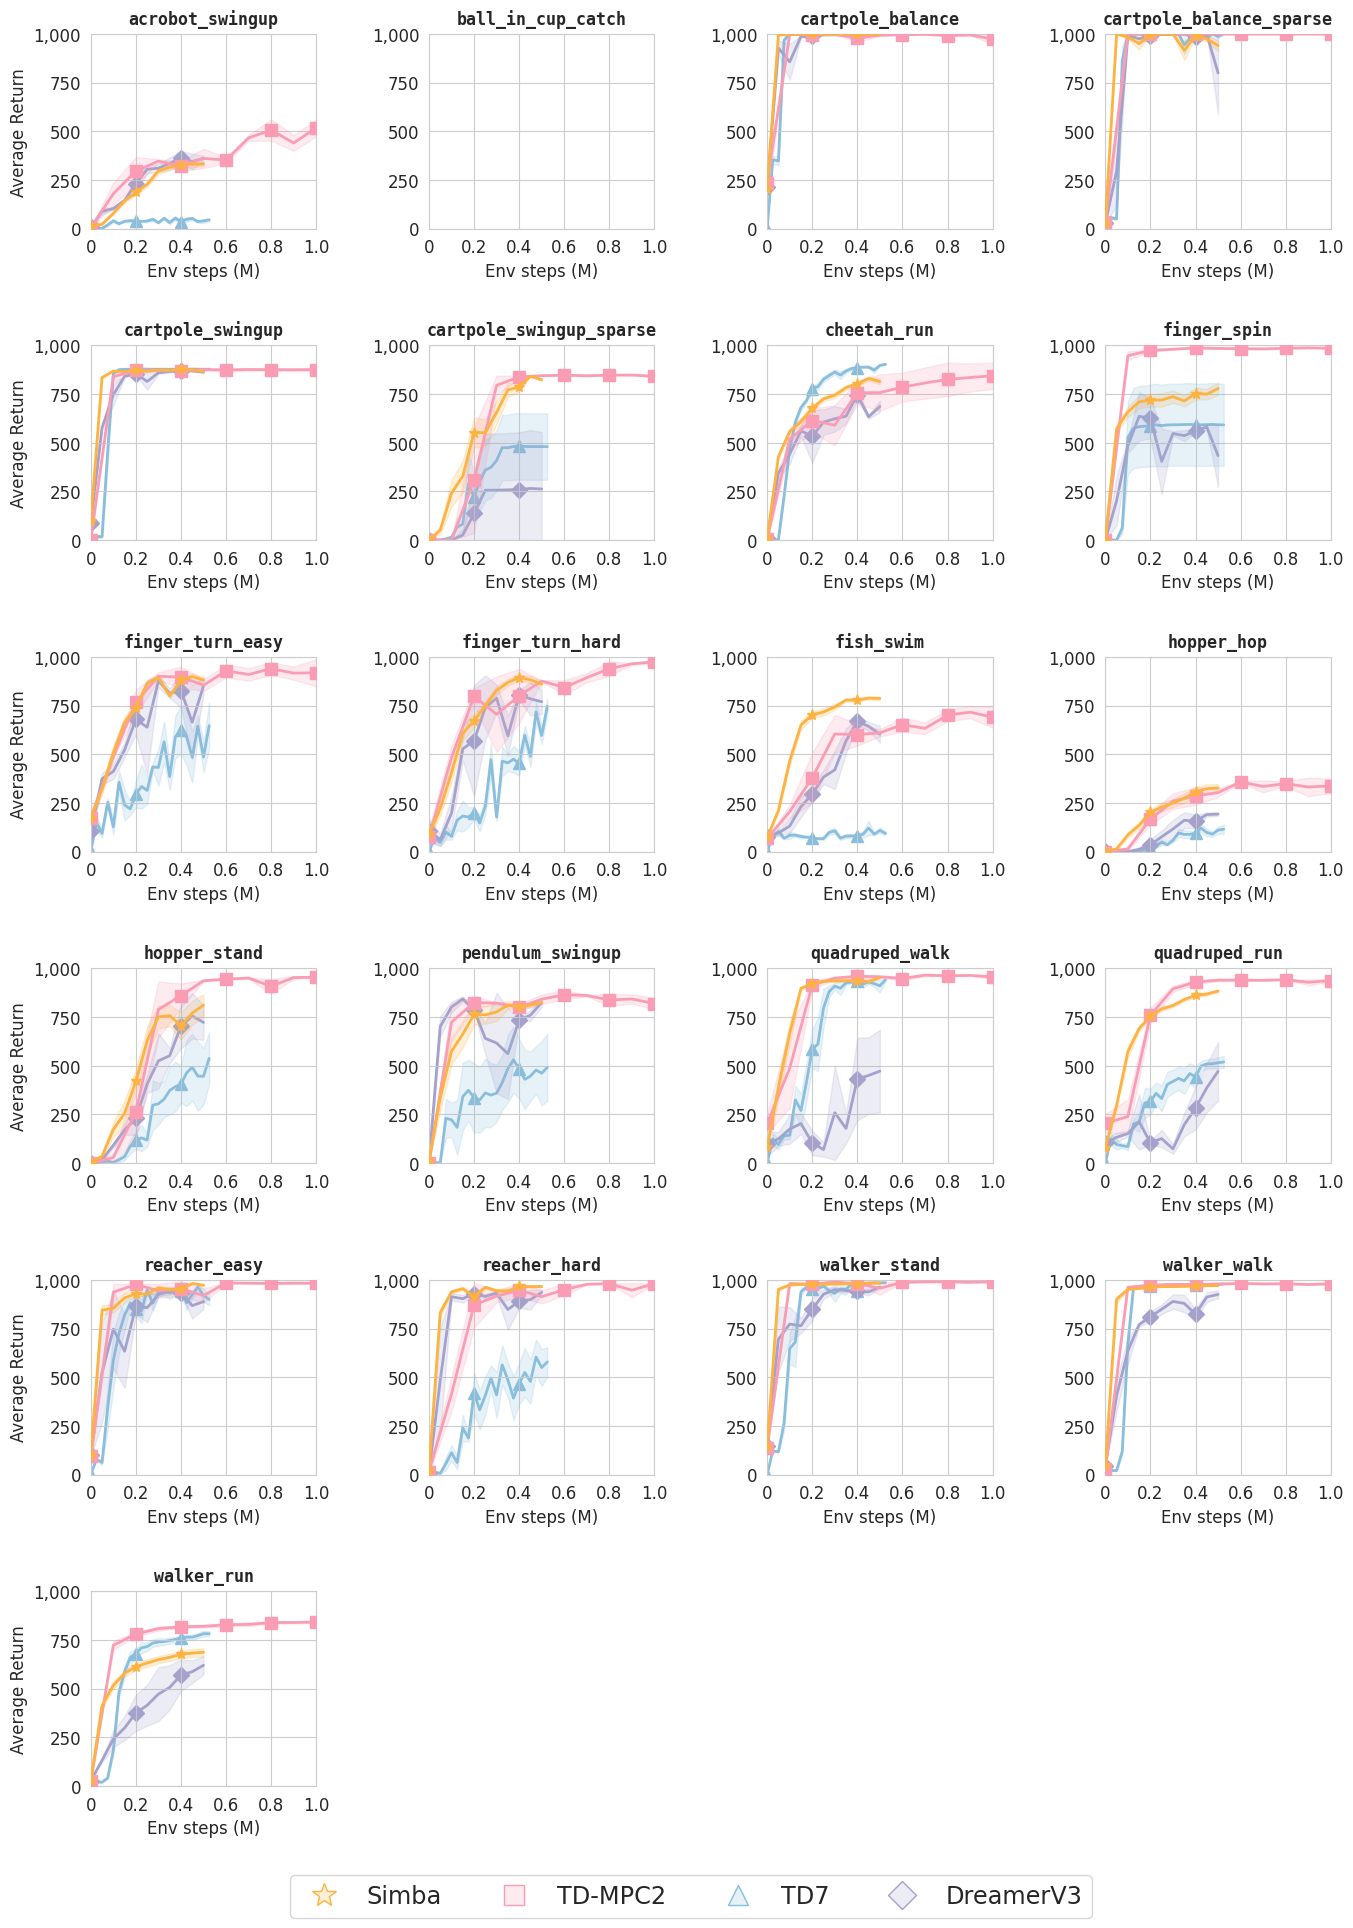
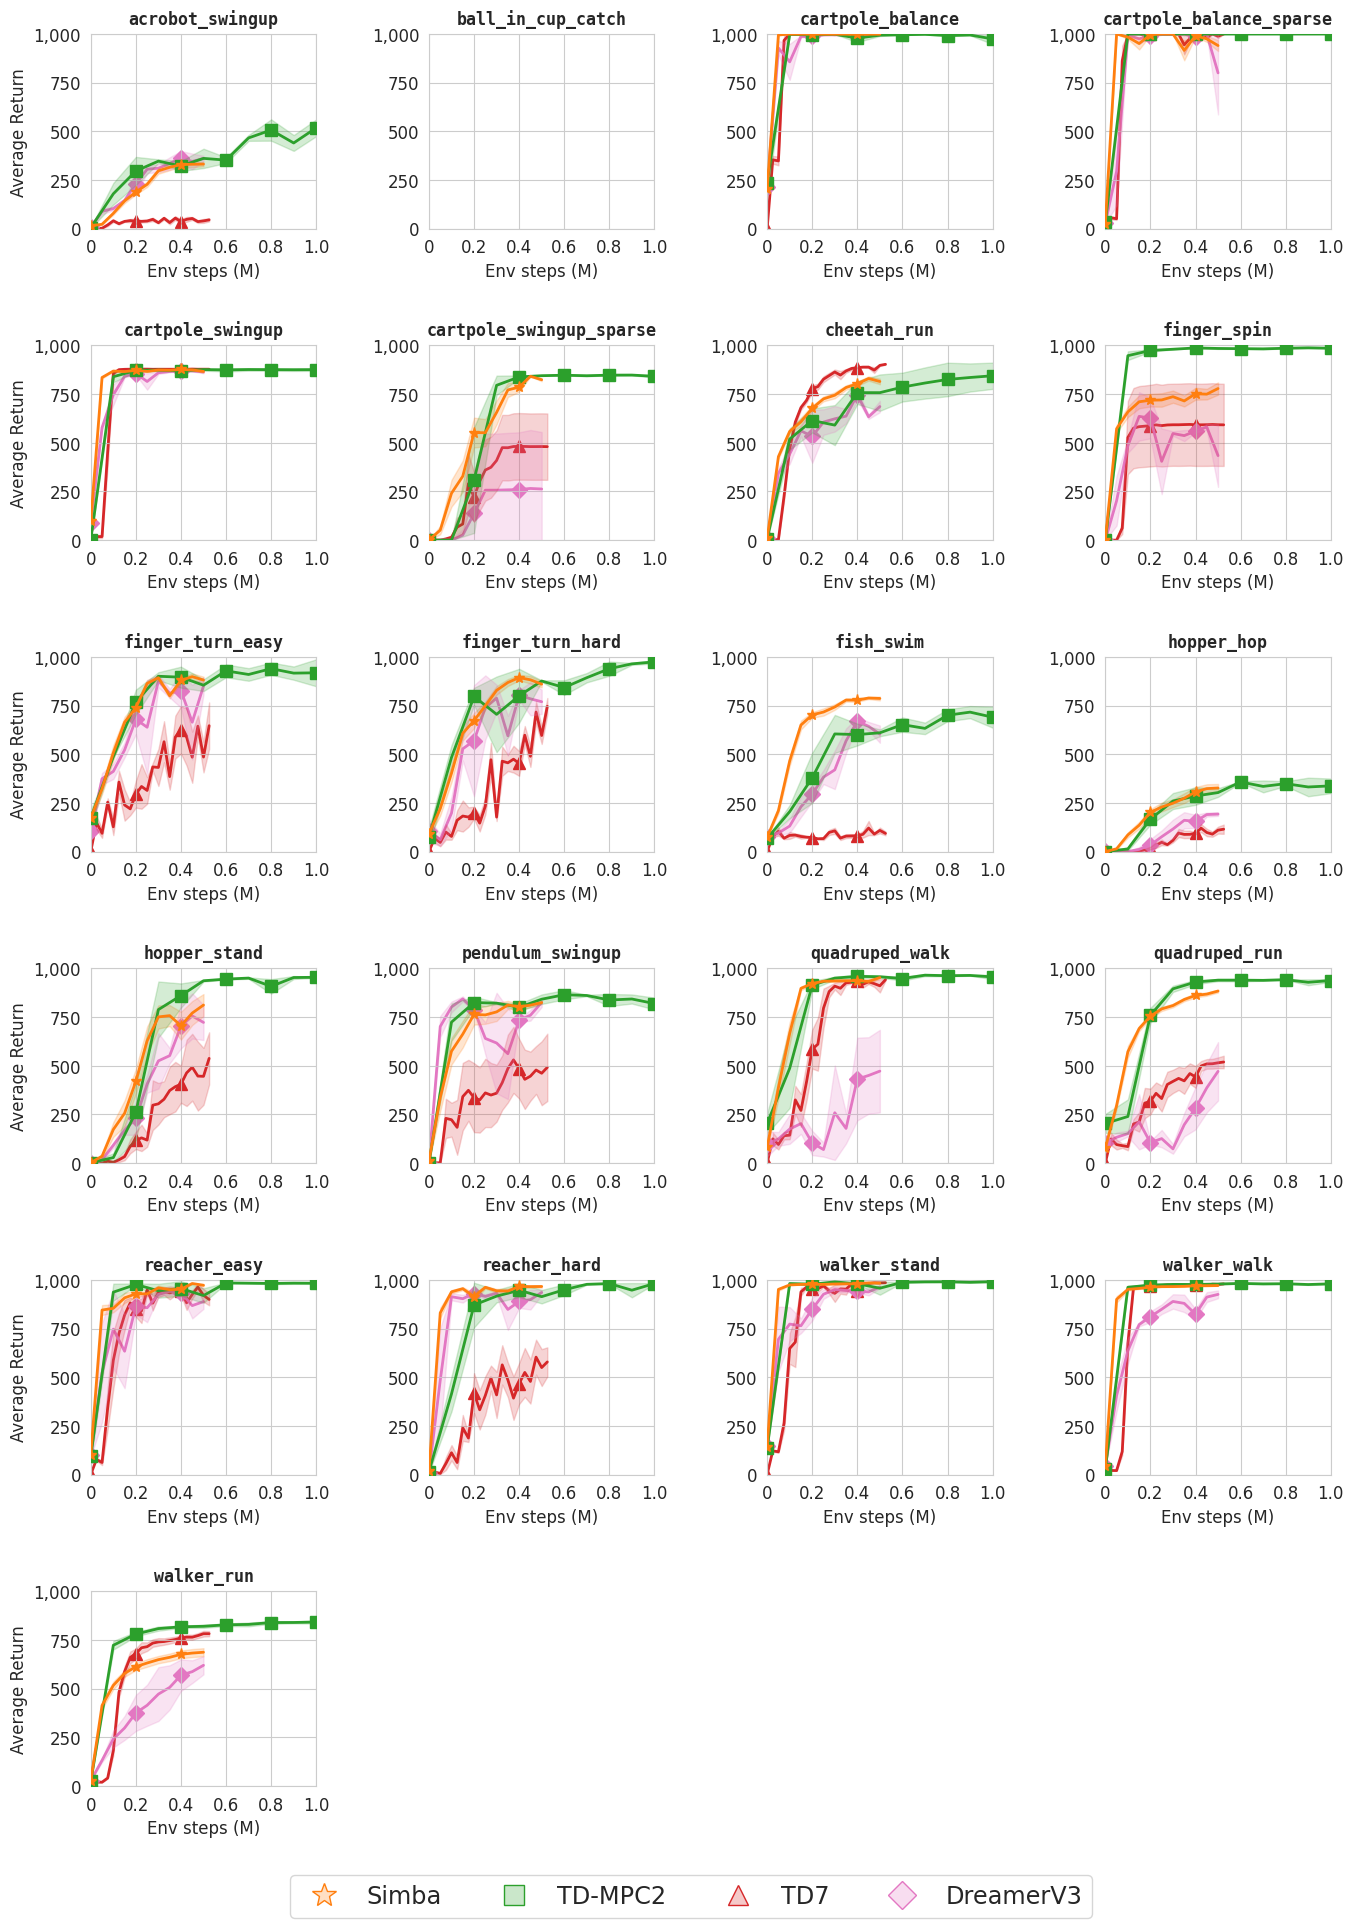
add color.py

diff --git a/analysis/figure/color.py b/analysis/figure/color.py
@@ -1,0 +1,19 @@
+# Dictionary of {method: color} for easy theme switching
+METHOD_COLORS = {
+    "HyperSimba": "#C7DDEC", # blue
+    "Simba": "#FFDFC3",# orange
+    "TD7": "#F5C9C9", # red
+    "MR.Q": "#E4D9EE", # purple
+    "TD-MPC2": "#CAE7CA", # green
+    "DreamerV3": "#F8DDF0", # pink
+}
+
+# Dictionary of {method: color} for easy theme switching
+METHOD_BOUNDARY_COLORS = {
+    "HyperSimba": "#1F77B4", # blue
+    "Simba": "#FF7F0F",# orange
+    "TD7": "#D62729", # red
+    "MR.Q": "#9467BD", # purple
+    "TD-MPC2": "#2CA02C", # green
+    "DreamerV3": "#E377C2", # pink
+}
